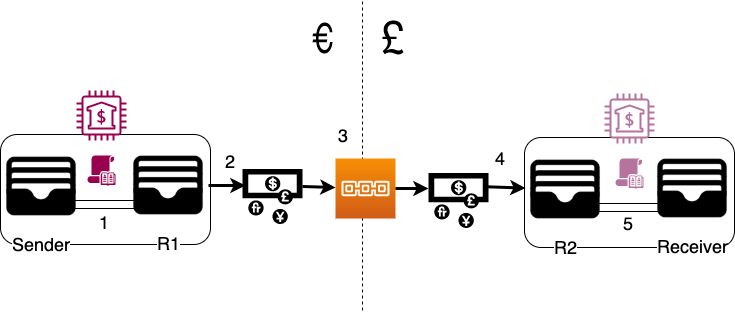
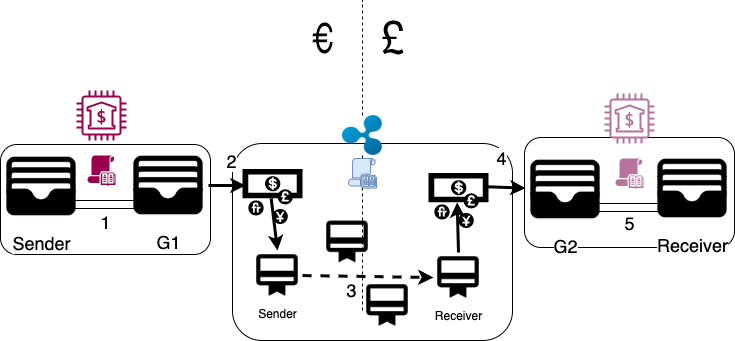
Payments 3 - Initial commit

diff --git a/_posts/2020-02-27-Payments-Intro-Part3.md b/_posts/2020-02-27-Payments-Intro-Part3.md
@@ -20,33 +20,228 @@ described how domestic and international payments work.*
     
 <!--more-->
 
+### Mobile money  
+
+Mobile money (or [M-Pesa][3] as is widely known from its initial Kenyan incarnation) is the answer to the question  
+> How do you provide digital financial services to third world populations, where the only technological device 
+> available is an [indestructible brick phone][5]?
+
+It seems that the populations had already found the answer themselves: [swapping of airtime][4].  
+M-Pesa was just the glossy version of an existing unofficial practice.
+
+![Mobile payments](../images/payments/payments-mobilemoney.png)
+
+Let's see how it works in principle.
+
+1. The Sender wants to top up her mobile money account balance.  
+She sends the equivalent amount to the Telco's bank account (V).
+2. The Telco is notified that a new deposit was made and increases her balance.
+3. The Sender can now make a payment using M-Pesa's mechanisms (e.g. an [STK][8] application with secure SMS) to the 
+Receiver. 
+4. The transaction is recorded on the Telco's ledger and the account balances are adjusted.
+
+The Receiver can use the balance for a mobile payment in the ecosystem or convert the amount into "real world" 
+money and paid to her account (lines 5, 6).  
+
+From its inception, M-Pesa was meant to be an [on-ramp][7] / [off-ramp][6] system, parallel to the "real" 
+financial world. In practice, even to this day, the off-ramping (5, 6) is rarely, if ever, exercised. This is a 
+combination of the plain lack of bank accounts and the [exorbitant withdrawal costs][9], up to 20%.  
+This last statement reveals a gross simplification of the above diagram: the vast majority of on- / off-ramping 
+does not happen through bank accounts. It takes place through a vast network of [street agents][10], who convert 
+cash into mobile money, taking a commission.  
+Street agents are the equivalent of a bank's brick-and-mortar network. The extremely low [capex][11] 
+to setup an agency, gave telcos an advantage of quick scale. 
+
+Since everything happens within one IT system (the telco's servers), transfer and settlement is instant. This is 
+combined with the mobile phone's PIN, providing a rudimentary layer of security.    
+This level of convenience and the lack of a viable alternative, led to African telcos becoming the de-facto 
+financial infrastructure is some countries. <sup>[1](#footnote_1)</sup> This ubiquity makes the off-ramp 
+almost unnecessary. It took years for the West to achieve a [similar level][13] of customer convenience.    
+
+Despite their importance and the huge commissions made, telcos were very lightly regulated in most countries until 
+recently. Concepts like [segregation of funds][14] are only now [being addressed][15], with telcos held to the same 
+standard as banks are. 
+
+#### E-money
+
+Based on e-mail
+trusted third party 
+
+to facilitate e-commerce 
+careful UX and web integration in the early internet days  
+
+WeChat and Alipay are similar 
+size
+Banking services, lending
+China is command-and-control capitalism (link) 
+these financial services are deeply integrated with the state apparatus
+
 ### OpenBanking
+
+
+
+Originates from PSD2 directive
+
+walled garden of banks and data
 
 TBTF
 
+disintermediate banks 
+and commoditize them 
 
-### Paypal
+UK ingeniously front-runned the roll-out of PSD2 in Europe
 
-### M-Pesa
+billion $$ gamble which paid off
+https://www.finextra.com/newsarticle/35199/uk-fintech-scene-sees-record-investment-in-2019
+https://www.consultancy.uk/news/22152/uk-fintech-investment-doubles-to-2-billion
 
-![Mobile payments](../images/payments/payments-mobilemoney.png)
 
 
 ### Remittance services
 
+We saw in part 2 how complex (and more often than not complicated) international payments are 
+
+What if there was a magic way of sending value cross-border without anything actually crossing borders?
+Sounds weird?
+This is where remittance services come in
+
 ![Remittance payments](../images/payments/payments-remittance.png)
 
+The magic happening behind the scenes is netting off of flows
+https://www.kantox.com/en/glossary/payment-netting-2/
+
+In practice this works like this 
+Sender having an account in RedBank in the Eurozone wants to send money to the Receiver 
+having an account in PinkBank in the UK
+1. Sender logs in to Remittance Service (RS) and enters her desired trade. Say, convert €100 to GBP and send to the 
+Receiver's GBP account
+RS gets the current spot price (link?) and provides the details of its Euro bank account (R1)
+The transaction for now is still pending in RS's ledger
+Sender has an alloted amount of time to send the funds, or the transaction is voided
+2. The Sender makes the transfer (1)
+This is usually a local transfer using the mechanisms described in part 1 (link?) 
+3. RS gets a notification that the amount has been deposited in its R1 account
+The transaction is marked as "funded" 
+4. RS then instructs its GBP account (R2) to pay out the GBP equivalent, at the rate that the Sender agreed.
+5. Again using a local payment mechanism (e.g. Faster Payments in the UK), Receiver gets the money
+The transaction is then marked as completed in RS's ledger and the books are balanced
+ 
+Let's pause here and unwrap the phrase "the books are balanced" 
+In step 2 RS's account R1 received €100, so RS's assets increased by €100
+By sending out the equivalent amount in GBP in step 5
+overall RS no longer owns the €100
+By nominally "securing" the FX rate at the moment of transfer, the books are balanced
+
+This setup greatly accelerates cross-border transactions 
+as there is no need for SWIFT messages or nostro/vostro movements
+only requirement is that R2 has the required cash buffer to service the payouts  
+
+The importance of the FX rate comes into play when we have the reverse flow 
+Let's say that Receiver wants to return the received amount
+The steps are followed in the reverse order and the balances in the 2 accounts (R1, R2) change accordingly
+
+This is the power of netting off flows
+RS takes a fee out of each transaction as an FX merchant would, 
+but actually moves a fraction of the transacted amounts 
+This fraction is dependent on the https://en.wikipedia.org/wiki/Balance_of_payments between the 2 currencies
+If the flows between Euro and GBP are balanced over time, then the balances of R1 and R2 will find an equilibrium  
+If we imagine that there is an imbalance of 5% more payments Euro-to-GBP than GBP-to-Euro, then R1 will be needing a 
+periodic 5% topup 
+Depending on the size of the short-fall this can be covered in any number of ways
+* a periodic international payment from R2 to R1 to re-balance the books (line 5)
+the FX fees paid by RS will be for a fraction of the fees it has collected for the total flows
+* interest accrued on R1, or
+* local borrowing (if the cost of capital is really-really cheap)
+In short, the more balanced a currency pair, the more profitable for the RS
+
+Some currency pairs are more imbalanced than others 
+This is especially the case in the remittances market 
+where emigrants send money back home (e.g. from USD to Mexican Pesos) 
+This is one of the reasons why, past a certain size, all remittance providers try to expand into the 
+business payments market to balance their flows
+e.g. countries with high emigration are net importers, i.e. a lot of money leaving the country as business payments  
+
+The myriad of Hawala agents of old would be proud 
 https://en.wikipedia.org/wiki/Hawala
 
 ## ...and the future
 
 ### Digital IOUs
 
+Will consider Ripple 
+Although stellar is practically the same thing
+https://www.fxempire.com/education/article/ripple-vs-stellar-will-there-be-only-one-winner-521999
+
 ![IOU payments](../images/payments/payments-iou.png)
+
+
+
+Entry point is an issuing gateway
+https://xrpl.org/become-an-xrp-ledger-gateway.html
+
+Trust lines are issued IOUs 
+https://xrpl.org/issued-currencies-overview.html
+
+XRP is a bridge currency
+
+
+Deflationary
+https://xrpl.org/reserves.html
+https://xrpl.org/transaction-cost.html
+
+Lumens are inflationary
 
 ### Libra
 
+Only mentioning it here as a contrast
+without going into its technical details
+
+Libra is an asset-backed digital currency
+
 ![Libra payments](../images/payments/payments-libra.png)
+
+Let's quickly examine how Libra works (making a lot of simplifications for brevity, where Facebook is the Libra foundation yada yada)
+A Sender wants to send an amount of €100 to the Receiver via Libra 
+both of them have the Calibra wallet installed
+
+1. Sender needs to fund her wallet with the Libra equivalent of €100
+For this reason she sends €100 to Facebook's bank account (over-simplifying, payment would be facilitated via card, 
+OpenBanking or some other mobile-friendly way)
+2. Facebook is notified of the amount 
+and **creates** the equivalent amount in Libra
+and funds Sender's wallet 
+This is what asset-backed means: tokens are created on the fly, as and when the backing bank account (or asset store) receives
+an asset
+3. Sender can then use the Calibra wallet to issue a blockchain payment
+Blockchain nodes are the trusted ones of the Libra members
+4. ...and a few seconds later the Receiver sees her Libra balance increasing 
+
+If the above looks very familiar, it's because, well... it is!
+
+At its core Libra is **not** a currency 
+it digital IOU, a token
+steps 1 and 2 are the on-ramp (link) to the platform
+what is missing on the other side is the off-ramp, where Libra would be converted to GBP
+
+But this is intentionally missing 
+because it was marketed from the start as a global currency, bank the unbanked and all that nice stuff
+
+I honestly do not know the future 
+but I strongly believe that at some point Libra is going to become a case study for Silicon Valley's
+endemic delusion of grandeur and detachment from reality
+
+Why not baptize it as a remittance service, a digital IOU, helping African 
+micro-businesses to trade internationally,... something fairly conspicuous, woke-ish and under the radar.
+Facebook already had the network effect and partnerships in place to make it a silent success and de facto global 
+payments network overnight
+
+But it had to be a revolutionary global currency!
+Taking away the only thing that makes a government a government
+Revolutions don't start with press statements
+
+### Proof-of-work money 
+
+![Crypto payments](../images/payments/payments-crypto.png)
 
 ### Government cryptocurrencies
 
@@ -69,11 +264,6 @@ pointless to maintain channels
 event equivalent to asteroid strike
 before and after
 
-### Proof-of-work money 
-
-![Crypto payments](../images/payments/payments-crypto.png)
-
-
 ## Stay tuned... 
 
 ![Stay tuned](../images/payments/flat-screen-television-1201996.jpg)
@@ -86,34 +276,21 @@ In the next and final installment, we will go over
 
 ## Footnotes
 
-1. <a name="footnote_1"></a>To use an analogy from [part 1][1].
-2. <a name="footnote_2"></a>In the olden days, banks would send a telegraphic message and later Telex.  
-In the modern day, for all that we know, RedBank may be employing a person to just press [Ctr+F5][7] 
-all day, to see new credits in their nostro account. 
-3. <a name="footnote_3"></a>Which means that by giving money to account E, RedBank did not just "magic" some money up.  
-It just counter-balanced its newly acquired asset (money in its PurpleBank account), with a liability (giving money to E). 
-So, all is zero in the end. 
-4. <a name="footnote_4"></a>If PurpleBank proves to be dodgy and its deposits evaporate, then RedBank's asset (their 
-account in PurpleBank) is worth nil and has to be written off.  
-5. <a name="footnote_5"></a>For example, the Spanish buying more German cars than the Germans [jamon iberico][20]. 
-6. <a name="footnote_6"></a>Being placed under sanctions goes beyond financial transactions. Any part of the [US 
-infrastructure][45] from SWIFT message processing to mail servers etc is blocked for entities considered adversaries. 
-And this can increasingly be anyone.
-7. <a name="footnote_7"></a>The mandate is the equivalent of C declaring "Please allow A to take (debit) from my account 
-in PurpleBank every X days and deposit it in her account in GreenBank". 
-8. <a name="footnote_8"></a>In a "normal" push payment it is first debit (from the payer) and then credit (to the payee).  
-In direct debit, it is first credit (to the payee) and then debit (from the payer), or at the very least these 2 happening 
-almost in parallel. 
-9. <a name="footnote_9"></a>Full disclosure: I am an employee of GoCardless, an online direct debit provider, at the 
-time of writing this blog post. 
-10. <a name="footnote_10"></a>Debit and credit cards have no practical difference in this discussion.
-11. <a name="footnote_11"></a>This used to be exclusively the remit of the Acquiring banks. But as technology and terminals 
-started becoming more advanced, it becomes harder and harder for "generalists" (as the banks are) to compete. Hence the 
-rise of dedicated processors. 
-12. <a name="footnote_12"></a>When mentioning 'Apple' in this section, I refer to Apple, Google, Samsung,... 
-13. <a name="footnote_13"></a>Hard to make sense, I know! I had to re-read that myself... :-/
-
+1. <a name="footnote_1"></a>E.g. [half of Kenya's GDP][12] is processed through mobile payments.
 
 
   [1]: https://sgerogia.github.io/Payments-Intro-Part1/
   [2]: https://sgerogia.github.io/Payments-Intro-Part2/
+  [3]: https://en.wikipedia.org/wiki/M-Pesa
+  [4]: https://citeseerx.ist.psu.edu/viewdoc/download;jsessionid=F00099E30481904D5EB009DB1E9349AB?doi=10.1.1.501.7811&rep=rep1&type=pdf
+  [5]: https://www.techtimes.com/articles/197815/20170219/a-look-back-before-the-comeback-why-many-loved-the-nokia-3310.htm
+  [6]: https://www.dictionary.com/browse/off-ramp
+  [7]: https://www.dictionary.com/browse/on-ramp
+  [8]: https://en.wikipedia.org/wiki/SIM_Application_Toolkit
+  [9]: https://www.mtn.co.ug/insight/mobile-money-tariffs/
+  [10]: https://en.wikipedia.org/wiki/Mobile_payment#/media/File:Mobile_money_outlet.jpg
+  [11]: https://www.investopedia.com/terms/c/capitalexpenditure.asp
+  [12]: https://www.paymentscardsandmobile.com/mobile-money-transactions-half-of-kenyas-gdp/
+  [13]: https://www.theguardian.com/money/2016/sep/10/contactless-cards-wave-pay-oyster-london-use
+  [14]: https://www.handbook.fca.org.uk/handbook/CASS/7/13.html
+  [15]: https://drive.google.com/open?id=1fp3MZ5GL1OQm55aapuEsK73jCzvBRnl9
